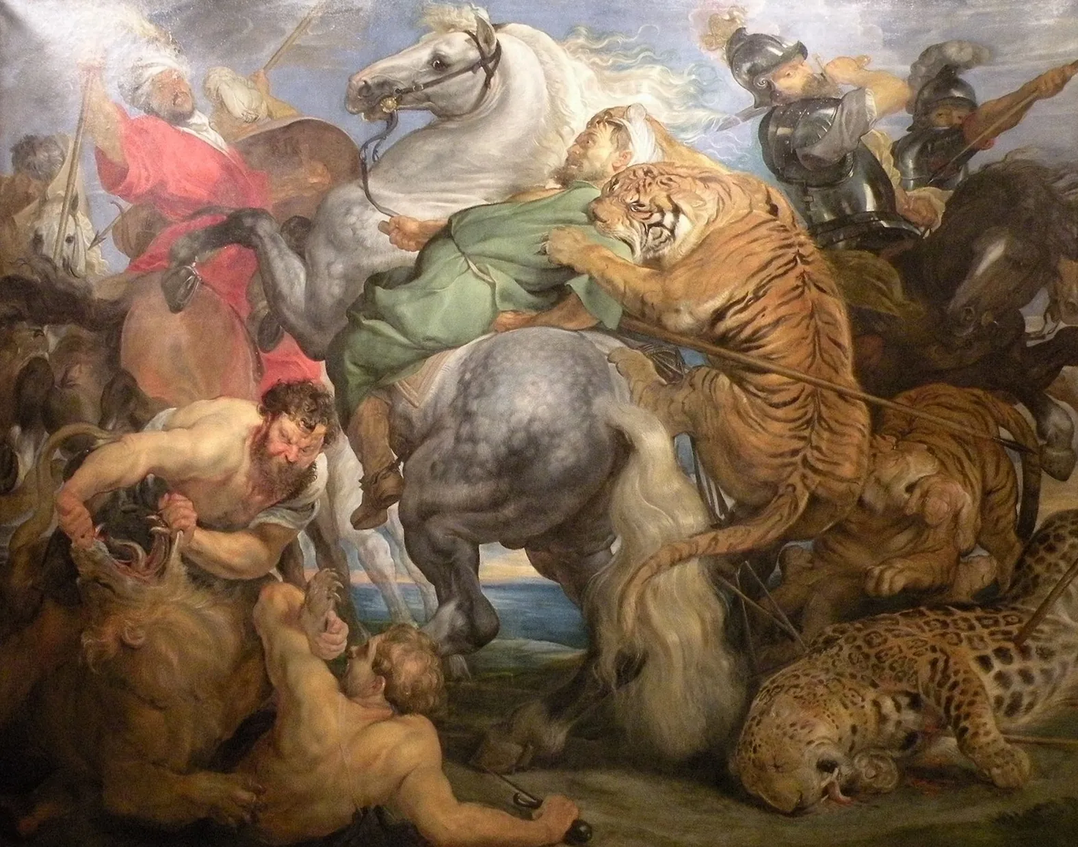
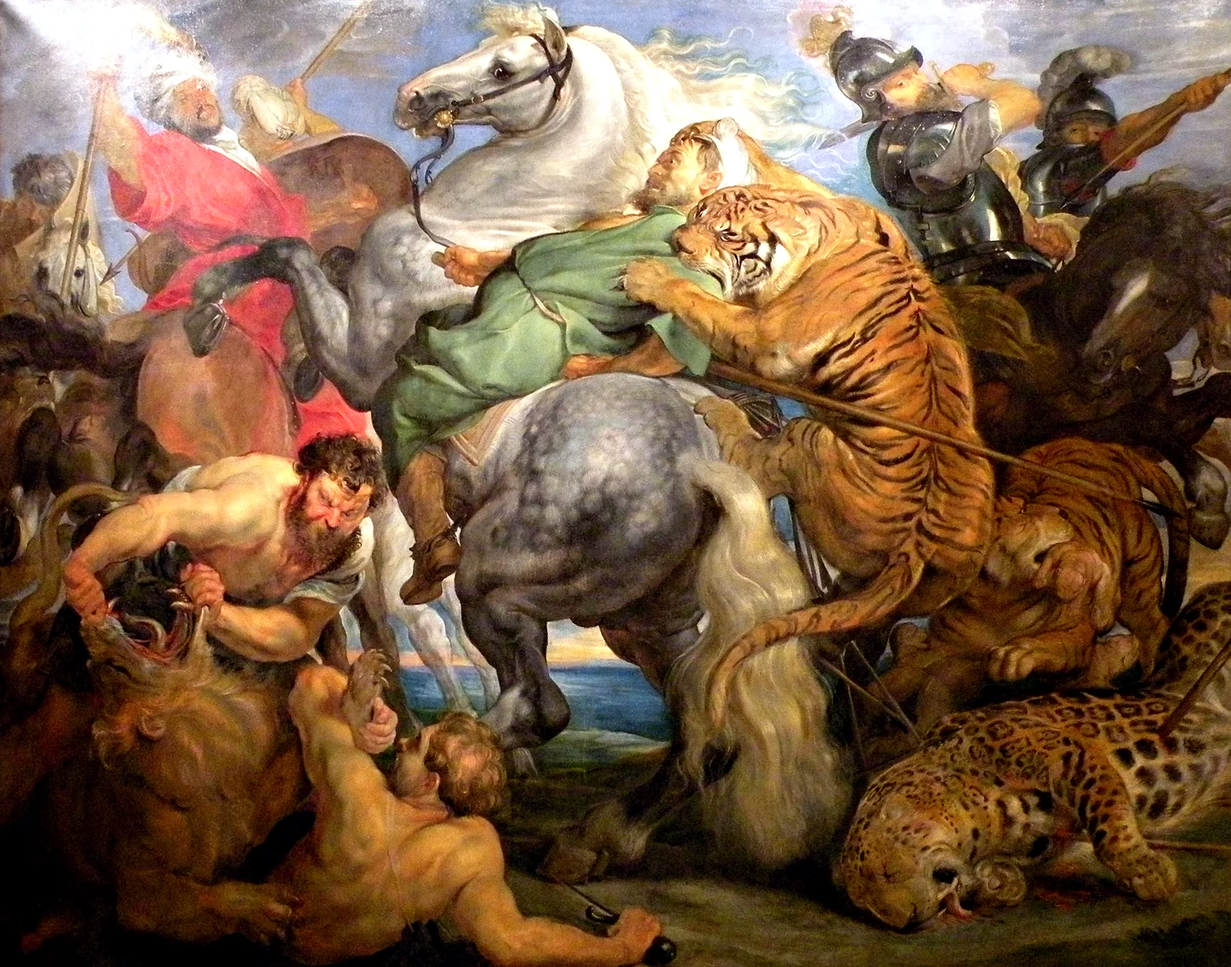
Number 3 car, vivid Tiger Hunt, NPTEL and certifications in timing
- Hero: original illustration of a navy, red and yellow F1 car with
  number 3 that waits on its P1 grid box and launches at lights out.
- The Tiger Hunt re-flattened from the full-resolution photo with
  stronger colour, contrast and clarity.
- "The fall" is Bruegel's Landscape with the Fall of Icarus again,
  replacing the Caravaggio.
- Live timing drops the SaveFlow and Claim Verifier rows and adds
  NPTEL Solid State Physics (top 5%, 82/100) and certifications;
  NPTEL top 5% also added to the podium and marks to the cert list.

diff --git a/index.html b/index.html
@@ -141,32 +141,92 @@
           <ol class="tower__rows">
             <li>
               <span class="tower__pos">01</span>
+              <span class="tower__lbl">NPTEL · Solid State Physics<small>IIT Kharagpur · Elite + Silver · 82/100</small></span>
+              <span class="tower__val">Top 5%</span>
+            </li>
+            <li>
+              <span class="tower__pos">02</span>
               <span class="tower__lbl">HackerRank Orchestrate<small>Rank 227 of 1,773</small></span>
               <span class="tower__val">Top 13%</span>
             </li>
             <li>
-              <span class="tower__pos">02</span>
+              <span class="tower__pos">03</span>
               <span class="tower__lbl">MalariaVision accuracy<small>4,144-image held-out test</small></span>
               <span class="tower__val">96.6%</span>
             </li>
             <li>
-              <span class="tower__pos">03</span>
-              <span class="tower__lbl">SaveFlow policy violations<small>50-case eval, incl. prompt injection</small></span>
-              <span class="tower__val">0 / 50</span>
-            </li>
-            <li>
               <span class="tower__pos">04</span>
-              <span class="tower__lbl">Claim Verifier, claim status<small>Held-out set · Gemini 3.1</small></span>
-              <span class="tower__val">20 / 20</span>
+              <span class="tower__lbl">DSA problems solved<small>LeetCode · NeetCode · C++</small></span>
+              <span class="tower__val">300+</span>
             </li>
             <li>
               <span class="tower__pos">05</span>
-              <span class="tower__lbl">DSA problems solved<small>LeetCode · NeetCode · C++</small></span>
-              <span class="tower__val">300+</span>
+              <span class="tower__lbl">Certifications<small>Stanford ML Specialization · Yale Financial Markets (Honors) · NPTEL Scalable Data Science (Elite)</small></span>
+              <span class="tower__val">4</span>
             </li>
           </ol>
           <p class="tower__foot"><span class="purple-dot"></span>Fastest sector: explainable ML</p>
         </aside>
+
+        <div class="hero__track">
+          <div class="track">
+            <span class="track__slot" aria-hidden="true"><b>P1</b></span>
+            <span class="track__trail" aria-hidden="true"></span>
+            <span class="track__trail track__trail--low" aria-hidden="true"></span>
+            <svg class="car" viewBox="0 0 640 160" role="img" aria-label="Illustration of a navy, red and yellow Formula 1 car carrying the number 3">
+              <defs>
+                <linearGradient id="car-body" x1="0" y1="0" x2="0" y2="1">
+                  <stop offset="0" stop-color="#34477F" />
+                  <stop offset=".45" stop-color="#1F2C59" />
+                  <stop offset="1" stop-color="#141C3A" />
+                </linearGradient>
+                <radialGradient id="car-tyre" cx=".42" cy=".38" r=".7">
+                  <stop offset="0" stop-color="#2A2D36" />
+                  <stop offset=".7" stop-color="#121419" />
+                  <stop offset="1" stop-color="#07080B" />
+                </radialGradient>
+              </defs>
+              <ellipse class="car__shadow" cx="330" cy="152" rx="300" ry="7" />
+              <!-- rear wing -->
+              <path class="car__dark" d="M78 66 L100 112 L92 114 L70 70 Z" />
+              <path class="car__body" d="M30 44 L88 44 L92 118 L40 124 Z" />
+              <rect class="car__red" x="24" y="40" width="72" height="9" rx="2" />
+              <rect class="car__body" x="26" y="52" width="68" height="8" rx="2" />
+              <rect class="car__yellow" x="30" y="61" width="58" height="2" />
+              <path class="car__dark" d="M40 124 L98 120 L104 138 L44 140 Z" />
+              <!-- floor -->
+              <path class="car__dark" d="M96 136 L560 134 L560 139 L96 142 Z" />
+              <!-- engine cover, shark fin, airbox, cockpit, nose -->
+              <path class="car__body" d="M86 120 C 86 108, 96 100, 120 96 C 170 86, 210 70, 236 56 L 262 54 C 266 62, 270 70, 278 76 L 300 82 L 372 84 C 440 88, 520 104, 598 118 C 604 120, 606 124, 604 128 C 560 128, 500 127, 462 128 L 432 132 L 170 134 C 130 134, 96 130, 86 120 Z" />
+              <path class="car__fin" d="M240 60 L112 96 L118 99 L246 66 Z" />
+              <!-- sidepod with livery sweep -->
+              <path class="car__pod" d="M312 98 C 300 98, 298 102, 298 110 L 298 126 C 250 128, 200 130, 160 130 C 190 116, 240 104, 312 98 Z" />
+              <path class="car__red" d="M306 104 C 262 108, 214 118, 176 130 L 196 130 C 232 120, 270 114, 306 112 Z" />
+              <path class="car__yellow" d="M306 101 C 262 105, 214 114, 172 127 L 176 128 C 216 116, 262 107, 306 103 Z" />
+              <rect class="car__inlet" x="298" y="100" width="9" height="20" rx="3" />
+              <!-- number 3 on the engine cover -->
+              <text class="car__num" x="196" y="104" transform="skewX(-12)">3</text>
+              <!-- nose tip + front wing -->
+              <path class="car__yellow" d="M580 116 L598 118 C 604 120, 606 124, 604 128 L 584 128 Z" />
+              <path class="car__body" d="M546 140 L626 140 L628 133 L600 128 L552 132 Z" />
+              <rect class="car__red" x="612" y="122" width="14" height="20" rx="2" />
+              <path class="car__yellow" d="M556 133 L600 129 L600 131 L556 135 Z" />
+              <!-- suspension -->
+              <path class="car__arm" d="M436 108 L500 104 M444 122 L500 112 M150 104 L120 104 M156 118 L120 112" />
+              <!-- halo, helmet, mirror -->
+              <circle class="car__helmet" cx="316" cy="74" r="12" />
+              <path class="car__visor" d="M318 70 L328 70 C 329 73, 329 76, 327 78 L 318 78 Z" />
+              <path class="car__red" d="M305 70 L317 70 L317 73 L305 73 Z" />
+              <path class="car__halo" d="M292 82 C 300 66, 330 62, 364 74 M360 72 L366 84" />
+              <path class="car__arm" d="M372 82 L380 76" />
+              <ellipse class="car__dark" cx="383" cy="75" rx="6" ry="3" />
+              <!-- wheels -->
+              <g class="car__wheel"><circle r="38" cx="122" cy="114" fill="url(#car-tyre)" /><circle class="car__stripe" r="30" cx="122" cy="114" /><circle class="car__rim" r="19" cx="122" cy="114" /><circle class="car__hub" r="6" cx="122" cy="114" /></g>
+              <g class="car__wheel"><circle r="36" cx="500" cy="116" fill="url(#car-tyre)" /><circle class="car__stripe" r="28" cx="500" cy="116" /><circle class="car__rim" r="18" cx="500" cy="116" /><circle class="car__hub" r="6" cx="500" cy="116" /></g>
+            </svg>
+            <span class="track__finish" aria-hidden="true"></span>
+          </div>
+        </div>
       </div>
     </section>
 
@@ -470,25 +530,25 @@
 
     <!-- ============ GALLERY II ============ -->
     <section class="gallery" aria-labelledby="g2">
-      <div class="container gallery__grid gallery__grid--portrait gallery__grid--flip">
-        <figure class="frame frame--portrait" data-reveal>
+      <div class="container gallery__grid gallery__grid--flip">
+        <figure class="frame" data-reveal>
           <div class="frame__inner">
-            <div class="frame__clip"><img src="assets/img/conversion-of-saul.webp" width="1100" height="1445" loading="lazy" decoding="async"
-                 alt="Caravaggio's Conversion on the Way to Damascus: Saul lies on his back beneath a piebald horse, arms raised and eyes closed, lit by a beam of light while an old groom holds the horse." /></div>
+            <div class="frame__clip"><img src="assets/img/fall-of-icarus.webp" width="1600" height="1043" loading="lazy" decoding="async"
+                 alt="Landscape with the Fall of Icarus: a ploughman works a hillside field above a bright bay with sailing ships, while two small legs disappear into the sea near the lower right." /></div>
           </div>
         </figure>
         <div class="placard" data-reveal>
           <p class="placard__no">Gallery II · The fall</p>
-          <h3 id="g2" class="placard__title">The Conversion on the Way to Damascus</h3>
-          <p class="placard__meta">Caravaggio · 1601 · Cerasi Chapel, Santa Maria del Popolo, Rome</p>
+          <h3 id="g2" class="placard__title">Landscape with the Fall of Icarus</h3>
+          <p class="placard__meta">Attributed to Pieter Bruegel the Elder · c. 1560 · Royal Museums of Fine Arts, Brussels</p>
           <p class="placard__read">
-            Saul has been thrown from his horse. He lies on his back in the dirt, armour useless, arms open.
-            The horse stays calm, the groom barely notices, and a single beam of light falls on the man on the
-            ground. In the story, this is the moment his old life ends and a better one begins.
+            Find Icarus. He’s easy to miss: two pale legs vanishing into the sea, near the ship on the right.
+            The ploughman keeps ploughing, the shepherd gazes at the sky, the ship sails on. The boy who flew
+            too close to the sun is a footnote in his own painting.
           </p>
           <div class="placard__take">
             <span>Why it hangs here</span>
-            <p>Failure looks like this from the inside: flat on your back, everything you relied on knocked away. It’s also where the light gets in. Every real rebuild starts with something breaking.</p>
+            <p>Everyone falls at some point, and the world rarely stops to watch. I find that freeing: a failure is data, not a verdict. Get up, mend the wings, and fly again at the right height.</p>
           </div>
         </div>
       </div>
@@ -584,6 +644,7 @@
         </header>
 
         <ul class="podium" data-reveal>
+          <li><strong>Top 5%</strong><span>NPTEL Solid State Physics, IIT Kharagpur: Elite + Silver, 82/100</span></li>
           <li><strong>Top 13%</strong><span>Rank 227 of 1,773 in HackerRank Orchestrate (June 2026), building and deploying an AI agent</span></li>
           <li><strong>Rank 1</strong><span>in admission counselling at JIIT</span></li>
           <li><strong>300+</strong><span>Data Structures &amp; Algorithms problems solved on LeetCode</span></li>
@@ -620,7 +681,7 @@
               <li><span>Stanford</span><p><a href="https://coursera.org/share/645949bed35b3b91e69e4c4dfd70f901" target="_blank" rel="noopener">Machine Learning Specialization<i>↗</i></a><br /><em>Stanford Online · Coursera</em></p></li>
               <li><span>Yale</span><p><a href="https://coursera.org/share/1d980330fdf825e4551cf43a25d0ff5e" target="_blank" rel="noopener">Financial Markets (Honors)<i>↗</i></a><br /><em>Yale University · Coursera</em></p></li>
               <li><span>NPTEL</span><p>Scalable Data Science <em>· Elite</em><br /><em>IIT Kharagpur</em></p></li>
-              <li><span>NPTEL</span><p>Solid State Physics <em>· Elite + Silver, top 5%</em><br /><em>IIT Kharagpur</em></p></li>
+              <li><span>NPTEL</span><p>Solid State Physics <em>· Elite + Silver · 82/100 · top 5%</em><br /><em>IIT Kharagpur</em></p></li>
             </ul>
           </div>
         </div>

diff --git a/styles.css b/styles.css
@@ -652,3 +652,76 @@ em { font-style: italic; }
 /* keep the footer clear of the circuit map */
 @media (min-width: 1101px) { .footer__inner { padding-right: 190px; } }
 @media (max-width: 640px) { .frame--wide img { aspect-ratio: auto; } }
+
+/* ==========================================================
+   Hero car: number 3 on the grid, away at lights out
+   ========================================================== */
+:root { --carw: clamp(230px, 31vw, 400px); }
+.hero__track { grid-column: 1 / -1; margin-top: clamp(4px, 1.5vw, 16px); }
+.track { position: relative; height: calc(var(--carw) * .25 + 14px); }
+.track::after { /* the asphalt edge */
+  content: ""; position: absolute; left: 0; right: 0; bottom: 6px; height: 1px;
+  background: linear-gradient(90deg, rgba(236,230,217,.32), rgba(236,230,217,.08) 70%, rgba(236,230,217,.2));
+}
+.track__slot { /* painted grid box in front of the car */
+  position: absolute; bottom: 6px; left: calc(var(--carw) * .80); width: calc(var(--carw) * .26); height: 10px;
+  border: 2px solid rgba(236,230,217,.55); border-bottom: 0;
+}
+.track__slot b {
+  position: absolute; left: 0; bottom: 14px;
+  font: italic 700 12px/1 var(--f1); letter-spacing: .08em; color: var(--muted);
+}
+.track__finish {
+  position: absolute; right: 0; bottom: 6px; width: 16px; height: 44px; opacity: .5;
+  background: conic-gradient(var(--ink) 25%, transparent 0 50%, var(--ink) 0 75%, transparent 0) 0 0 / 8px 8px;
+}
+.car {
+  position: absolute; left: 0; bottom: 0; width: var(--carw); height: auto; overflow: visible;
+  transition: left 2.6s cubic-bezier(.6, 0, .18, 1);
+  filter: drop-shadow(0 10px 18px rgba(0,0,0,.45));
+}
+.track.is-go .car { left: calc(100% - var(--carw) - 34px); }
+.track__trail {
+  position: absolute; left: calc(var(--carw) * .15); bottom: calc(var(--carw) * .12); height: 2px; width: 0;
+  background: linear-gradient(90deg, transparent, rgba(232, 65, 79, .75));
+  transition: width 2.6s cubic-bezier(.6, 0, .18, 1), opacity 1.2s ease 2.2s;
+}
+.track__trail--low { bottom: calc(var(--carw) * .06); background: linear-gradient(90deg, transparent, rgba(227, 179, 65, .55)); }
+.track.is-go .track__trail { width: calc(100% - var(--carw) - 34px); opacity: 0; }
+
+.car__shadow { fill: rgba(0,0,0,.5); }
+.car__body { fill: url(#car-body); }
+.car__pod { fill: #18224A; }
+.car__fin { fill: #2B3A6E; }
+.car__dark { fill: #0C1020; }
+.car__red { fill: #E0263B; }
+.car__yellow { fill: #FFC72C; }
+.car__inlet { fill: #070A14; }
+.car__arm { fill: none; stroke: #0C1020; stroke-width: 3; stroke-linecap: round; }
+.car__halo { fill: none; stroke: #0C1020; stroke-width: 5; stroke-linecap: round; }
+.car__helmet { fill: #1F2C59; stroke: #FFC72C; stroke-width: 1.5; }
+.car__visor { fill: #0A0D18; }
+.car__num { font: italic 700 34px/1 var(--f1); fill: #fff; }
+.car__stripe { fill: none; stroke: #FFC72C; stroke-width: 2.5; stroke-dasharray: 34 13; opacity: .9; }
+.car__rim { fill: #1B2131; stroke: #3A4257; stroke-width: 1.5; }
+.car__hub { fill: #C8CCD6; }
+
+/* Podium now holds five results */
+.podium { grid-template-columns: repeat(5, minmax(0, 1fr)); }
+@media (max-width: 960px) {
+  .podium { grid-template-columns: repeat(2, minmax(0, 1fr)); }
+  .podium li:nth-child(3) { padding-left: 22px; border-left: 1px solid var(--line); }
+  .podium li:nth-child(2n+1) { padding-left: 0; border-left: 0; }
+}
+@media (max-width: 640px) {
+  .podium { grid-template-columns: 1fr; }
+  .podium li, .podium li:nth-child(2n+1), .podium li:nth-child(3) { padding: 22px 0; border-left: 0; }
+}
+
+/* car polish: outline against the dark page, readable helmet and halo; hero fits the car above the fold */
+.car__body { stroke: rgba(150, 170, 230, .32); stroke-width: 1; stroke-linejoin: round; }
+.car__helmet { fill: #3A4E8F; stroke: #FFC72C; stroke-width: 2.2; }
+.car__halo { stroke: #3B4568; }
+:root { --carw: clamp(220px, 27vw, 360px); }
+.hero { padding-block: clamp(40px, 5vw, 64px); }
+.start { margin-bottom: 24px; }

diff --git a/main.js b/main.js
@@ -29,6 +29,8 @@
     pods.forEach(p => p.classList.remove('on'));
     start.classList.add('is-out');
     startText.textContent = 'Lights out and away we go';
+    const track = $('.track');
+    if (track) track.classList.add('is-go');
   };
   if (start && pods.length) {
     if (reduce) {

diff --git a/README.md b/README.md
@@ -5,7 +5,7 @@ Personal portfolio of **Shiva Preetham Chelimila**, AI/ML engineer and B.Tech CS
 **Live:** https://shiva-preetham.github.io
 
 A single static page (HTML, CSS, a little vanilla JS), no build step, hosted free on GitHub Pages.
-The design pairs the precision of Formula 1 (a timing tower, sector markers, lights out) with four
+The design pairs the precision of Formula 1 (start lights, a timing tower, lap counters and a number 3 car) with four
 Old Master paintings that tell one story: chaos, the fall, the grind, the rise.
 
 ## Edit
@@ -23,7 +23,7 @@ Push to `main` and GitHub Pages redeploys within a minute or two.
 ## Paintings
 
 - Peter Paul Rubens, *The Tiger Hunt* (c. 1615–16): chaos
-- Caravaggio, *The Conversion on the Way to Damascus* (1601): the fall
+- Attributed to Pieter Bruegel the Elder, *Landscape with the Fall of Icarus* (c. 1560): the fall
 - Titian, *Sisyphus* (1548–49): the grind
 - Piero della Francesca, *The Resurrection* (c. 1463–65): the rise
 
